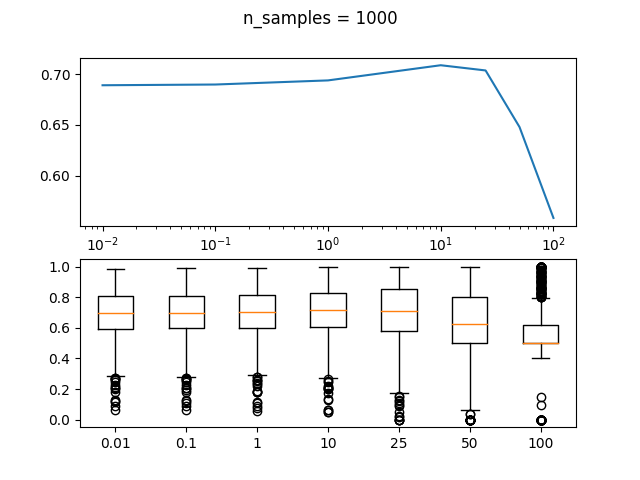
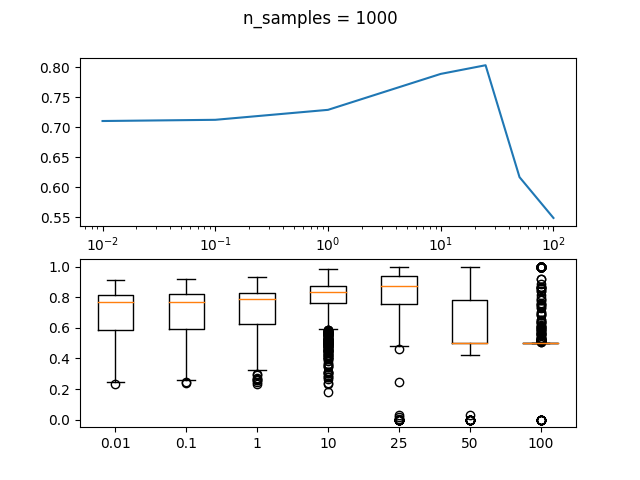
jump model important updates to fit

diff --git a/models/hidden_markov/hmm_jump.py b/models/hidden_markov/hmm_jump.py
@@ -24,7 +24,7 @@ True states in jump_penalty crossval must be true states -> Currently the Viterb
 
 class JumpHMM(BaseHiddenMarkov):
 
-    def __init__(self, n_states: int = 2, jump_penalty: float = .2, window_len: int = 6,
+    def __init__(self, n_states: int = 2, jump_penalty: float = 25, window_len: int = 6,
                  init: str = 'kmeans++', max_iter: int = 30, tol: int = 1e-6,
                  epochs: int = 10, random_state: int = 42):
         super().__init__(n_states, init, max_iter, tol, epochs, random_state)
@@ -36,28 +36,32 @@ class JumpHMM(BaseHiddenMarkov):
         self.state_seq = None
         self.n_features = None
 
-    def _init_params(self, X=None, diag_uniform_dist=(.7, .99), output_hmm_params=False):
+    def _init_params(self, Z, X=None, diag_uniform_dist=(.7, .99), output_hmm_params=False):
         super()._init_params()
 
         if self.init == "kmeans++":
-            if not isinstance(X, np.ndarray):
+            if not isinstance(Z, np.ndarray):
                 raise Exception("To initialize with kmeans++ a sequence of data must be provided in an ndarray")
-            if X.ndim == 1:
-                X = X.reshape(-1, 1)  # Compatible with sklearn
+            if Z.ndim == 1:
+                Z = Z.reshape(-1, 1)  # Compatible with sklearn
 
             # Theta
-            centroids, _ = kmeans_plusplus(X, self.n_states)  # Use sklearns kmeans++ algorithm
-            theta = self.theta = centroids.T  # Transpose to get shape (n_features, n_states)
+            centroids, _ = kmeans_plusplus(Z, self.n_states)  # Use sklearns kmeans++ algorithm
+            theta = centroids.T  # Transpose to get shape (n_features, n_states)
 
             # State sequence
-            state_seq, _ = self.state_seq, _ = self._fit_state_seq(X, theta)
+            state_seq, _ = self._fit_state_seq(Z, theta)
 
             if output_hmm_params == True:  # output all hmm parameters from state sequence
-                self.get_params_from_seq(X, state_sequence=self.state_seq)
+                if not X == None:
+                    self.get_params_from_seq(X, state_sequence=self.state_seq)
+                else:
+                    raise Exception('''To output hmm-params from sequence, X must be provided as a 1D-array.
+                                    X has to be non-standardized data otherwise it will return standardized results''')
 
             return state_seq, theta
 
-    def construct_features(self, X: ndarray, window_len: int):  # TODO remove forward-looking params and slice X accordingly
+    def construct_features(self, X: ndarray, window_len: int):
 
         df = pd.DataFrame({'raw_input': X})
 
@@ -74,7 +78,7 @@ class JumpHMM(BaseHiddenMarkov):
         df['left_local_median'] = df['raw_input'].rolling(window_len).median() #
 
         #Rolling difference between min and max
-        df['min_max_diff'] = df['raw_input'].rolling(window_len).max() - df['raw_input'].rolling(window_len).min() #Also gives error, but code should be ok
+        df['min_max_diff'] = df['raw_input'].rolling(window_len).max() - df['raw_input'].rolling(window_len).min() # TODO Also gives error, but code should be ok
 
         #Rolling sum
         df['left_local_sum'] = df['raw_input'].rolling(window_len).sum()
@@ -88,8 +92,6 @@ class JumpHMM(BaseHiddenMarkov):
         self.n_features = Z.shape[1]
 
         return Z
-
-
 
     def _l2_norm_squared(self, z, theta):
         """
@@ -182,22 +184,22 @@ class JumpHMM(BaseHiddenMarkov):
 
         return state_preds, objective_score
 
-    def fit(self, X, auto_construct_features=True, get_hmm_params=True, verbose=0):
+    def fit(self, X, get_hmm_params=True, verbose=0):
         self.is_fitted = False
-        old_objective_score = best_objective_score = np.inf
+        best_objective_score = np.inf
 
-        if auto_construct_features is True:
-            X = self.construct_features(X, window_len=self.window_len)
+        Z = self.construct_features(X, window_len=self.window_len)
 
         # Each epoch independently inits and fits a new model to the same data
         for epoch in range(self.epochs):  # TODO consider parallel processing
             # Do new init at each epoch
-            state_seq, theta = self._init_params(X, output_hmm_params=False)
+            state_seq, theta = self._init_params(Z, output_hmm_params=False, X=X)
             old_state_seq = state_seq
+            old_objective_score = np.inf
 
             for iter in range(self.max_iter):
-                theta = self._fit_theta(X, state_seq)
-                state_seq, objective_score = self._fit_state_seq(X, theta)
+                theta = self._fit_theta(Z, state_seq)
+                state_seq, objective_score = self._fit_state_seq(Z, theta)
 
                 # Check convergence criterion
                 crit1 = np.array_equal(state_seq, old_state_seq)  # No change in state sequence
@@ -211,8 +213,8 @@ class JumpHMM(BaseHiddenMarkov):
                         self.theta = theta
                         self.state_seq = state_seq
 
-                    if verbose == 1:
-                        print(f'Epoch {epoch} -- Iter {iter} -- likelihood {objective_score} -- Theta {self.theta[0]} ')
+                        if verbose == 1:
+                            print(f'Epoch {epoch} -- Iter {iter} -- likelihood {objective_score} -- Theta {self.theta[0]} ')
 
                     break  # Break out of inner loop and go to next epoch
 
@@ -220,14 +222,13 @@ class JumpHMM(BaseHiddenMarkov):
                     old_state_seq = state_seq
                     old_objective_score = objective_score
 
-
         if get_hmm_params is True:
             self.get_params_from_seq(X, state_sequence=self.state_seq)
 
         if self.is_fitted is False:
             print(f'No convergence in any epoch out of {self.epochs} epochs')
 
-    def get_params_from_seq(self, X, state_sequence):  # TODO remove forward-looking params and slice X accordingly for X.ndim == 1
+    def get_params_from_seq(self, X, state_sequence):
         """
         Stores and outputs the model parameters based on the input sequence.
 
@@ -245,9 +246,9 @@ class JumpHMM(BaseHiddenMarkov):
 
         # Slice data
         if X.ndim == 1:  # Makes function compatible on higher dimensions
-            X = X[(self.window_len - 1): -self.window_len]
-        elif X.ndim > 1:
-            X = X[:, 0]
+            X = X[(self.window_len - 1):]
+        else:
+            raise Exception('''X must be one-dimensional. Pass raw data as 1-D array.''')
 
         # group by states
         diff = np.diff(state_sequence)
@@ -295,9 +296,9 @@ class JumpHMM(BaseHiddenMarkov):
         """
         # Slice data
         if X.ndim == 1:  # Makes function compatible on higher dimensions
-            X = X[(self.window_len - 1): -self.window_len]
-        elif X.ndim > 1:
-            X = X[:, 0]
+            X = X[(self.window_len - 1):]
+        else:
+            raise Exception('''X must be one-dimensional. Pass raw data as 1-D array.''')
 
         df_states = pd.DataFrame({'state_seq': state_sequence,
                                   'X': X})
@@ -319,7 +320,7 @@ class JumpHMM(BaseHiddenMarkov):
         self.state_seq = self._check_state_sort(X, self.state_seq)
 
         y_pred = self.state_seq
-        y_true = y_true[(self.window_len - 1): -self.window_len]  # slice y_true to have same dim as y_pred
+        y_true = y_true[(self.window_len - 1):]  # slice y_true to have same dim as y_pred
 
         conf_matrix = confusion_matrix(y_true, y_pred)
         keep_idx = conf_matrix.sum(axis=1) != 0
@@ -335,9 +336,11 @@ class JumpHMM(BaseHiddenMarkov):
                     (np.any(conf_matrix.sum(axis=1)==0) and \
                     jump_penalty < 100)
 
+        """
         if logical_1 or logical_2:
             print(f'bac {bac} -- tpr {tpr} -- jump_penalty {jump_penalty}')
             print(conf_matrix)
+        """
 
         return bac
 
@@ -351,21 +354,20 @@ class JumpHMM(BaseHiddenMarkov):
 
 
 if __name__ == '__main__':
-    #model = JumpHMM(n_states=2, jump_penalty=2, random_state=42)
-    #sampler = SampleHMM(n_states=2, random_state=1)
+    model = JumpHMM(n_states=2, jump_penalty=25, window_len=6, random_state=2)
+    sampler = SampleHMM(n_states=2, random_state=2)
 
-    #n_samples = 250
-    #n_sequences = 50
-    #X, viterbi_states, true_states = sampler.sample_with_viterbi(n_samples, n_sequences)
+    n_samples = 1000
+    n_sequences = 1
+    X, viterbi_states, true_states = sampler.sample_with_viterbi(n_samples, n_sequences)
 
 
     #plotting.plot_samples_states_viterbi(X[:,0], viterbi_states[:,0], true_states[:,0])
 
     #for i in range(50):
        # bac = model.bac_score_1d(X[:,i], viterbi_states[:, i] , 30)
-    model = JumpHMM(n_states=2)
-    X = np.array([1,2,3,4,5,6,7,8,9])
-    model.construct_features(X, window_len=3)
+
+    model.fit(X, verbose=True)
 
 
 

diff --git a/analysis/model_convergence/jump_penalty.py b/analysis/model_convergence/jump_penalty.py
@@ -3,6 +3,8 @@ import pandas as pd
 import matplotlib.pyplot as plt
 from sklearn.preprocessing import StandardScaler
 import tqdm
+from multiprocessing import Pool
+from functools import partial
 
 from models.hidden_markov.hmm_jump import JumpHMM
 from utils.hmm_sampler import SampleHMM
@@ -12,22 +14,42 @@ if __name__ == '__main__':
     model = JumpHMM(n_states=2, jump_penalty=0, random_state=42)
     sampler = SampleHMM(n_states=2, random_state=42)
 
-    n_samples = 1000
-    n_sequences = 1000
-    X, viterbi_states, true_states = sampler.sample_with_viterbi(n_samples, n_sequences)
+    pool = Pool()
+    # result = pool.map(mapfunc, [X]*20)
 
-    bac = []
-    penalties = [0.01 ,0.1, 1, 10, 25, 50, 100]
-    for penalty in tqdm.tqdm(penalties):
-        model = JumpHMM(n_states=2, jump_penalty=penalty, random_state=42)
-        bac_temp = model.bac_score_nd(X, viterbi_states, jump_penalty=penalty)
-        bac.append(bac_temp)
+
+    #penalties = [0.01 ,0.1, 1, 10, 25, 50, 100]
+    penalties = np.logspace(-2, 7, num=20, base=2)
+    bac_outer = []
+    sample_lengths = [250, 500, 1000, 2000]
+    for sample_length in tqdm.tqdm(sample_lengths):
+        n_samples = sample_length
+        n_sequences = 1000
+        X, viterbi_states, true_states = sampler.sample_with_viterbi(n_samples, n_sequences)
+        bac_inner = []
+
+        for penalty in penalties:
+            model = JumpHMM(n_states=2, jump_penalty=penalty, random_state=42)
+            bac_temp = model.bac_score_nd(X, true_states, jump_penalty=penalty)
+            bac_inner.append(bac_temp)
+        bac_outer.append(bac_inner)
+
+    #model = JumpHMM(n_states=2, jump_penalty=100000, random_state=42)
+    #mapfunc = partial(model.bac_score_nd, X=X, y_true=true_states)
+    #bac_temp = pool.map(mapfunc, penalties)
+
+    #def compute_penalty(penalty, X=X, true_states=true_states):
+    #    return model.bac_score_nd(X, true_states, penalty)
+    #result = pool.map(compute_penalty, penalties)
+
+
 
     fig, ax = plt.subplots(2,1)
     ax[0].set_xscale('log')
-    ax[0].plot(penalties, np.mean(bac, axis=1))
-    ax[1].boxplot(bac)
-    ax[1].set_xticklabels(penalties)
+    for i, sample_length in enumerate(sample_lengths):
+        ax[0].plot(penalties, np.mean(bac_outer[i], axis=1), label=str(sample_length))
+
+    ax[1].boxplot(bac_outer[-1], showfliers=False)
     plt.suptitle(f"n_samples = {n_samples}")
     plt.show()
 

diff --git a/models/hidden_markov/hmm_t_em.py b/models/hidden_markov/hmm_t_em.py
@@ -4,8 +4,6 @@ from scipy.special import digamma
 import scipy.optimize as opt
 import matplotlib.pyplot as plt
 
-from typing import List
-
 from utils.simulate_returns import simulate_2state_gaussian
 from hmm_gaussian_em import EMHiddenMarkov
 
@@ -45,12 +43,12 @@ class EMTHiddenMarkov(EMHiddenMarkov):
         return probs, log_probs
 
     def _m_step(self, X, log_gamma, log_xi, iterations: int = 2):
-        ''' Given u and f do an m-step.
-          Update degrees of freedom iteratively.
-         Updates the model parameters delta, Transition matrix and state dependent distributions.
+        '''
+        Given log_gamma and log_xi do an m-step.
+
+        Update degrees of freedom iteratively.
+        Updates the model parameters delta, Transition matrix and state dependent distributions.
          '''
-        X = np.array(X)
-        T = len(X)
 
         # init u_it
         u_it = np.square(self.std[-1]) * (self.dof + 1) / ((np.square(self.std[-1]) * self.dof) + np.square(X - self.mu[-1]))

diff --git a/models/hidden_markov/hmm_gaussian_em.py b/models/hidden_markov/hmm_gaussian_em.py
@@ -164,8 +164,8 @@ class EMHiddenMarkov(BaseHiddenMarkov):
 
             for iter in range(self.max_iter):
                 # Do e- and m-step
-                gamma, xi, llk = self._e_step(X)
-                self._m_step(X, gamma, xi)
+                log_gamma, log_xi, llk = self._e_step(X)
+                self._m_step(X, log_gamma, log_xi)
 
                 # Check convergence criterion
                 crit = np.abs(llk - self.old_llk)  # Improvement in log likelihood
@@ -202,7 +202,7 @@ class EMHiddenMarkov(BaseHiddenMarkov):
         self.std = self.best_std
 
 if __name__ == '__main__':
-    sampler = SampleHMM(n_states=2, random_state=42, hmm_params=hmm_params)
+    sampler = SampleHMM(n_states=2, random_state=42)
     X, viterbi_states, true_states = sampler.sample_with_viterbi(1000, 1)
     model = EMHiddenMarkov(n_states=2, init="random", random_state=42, epochs=20, max_iter=100)
 
